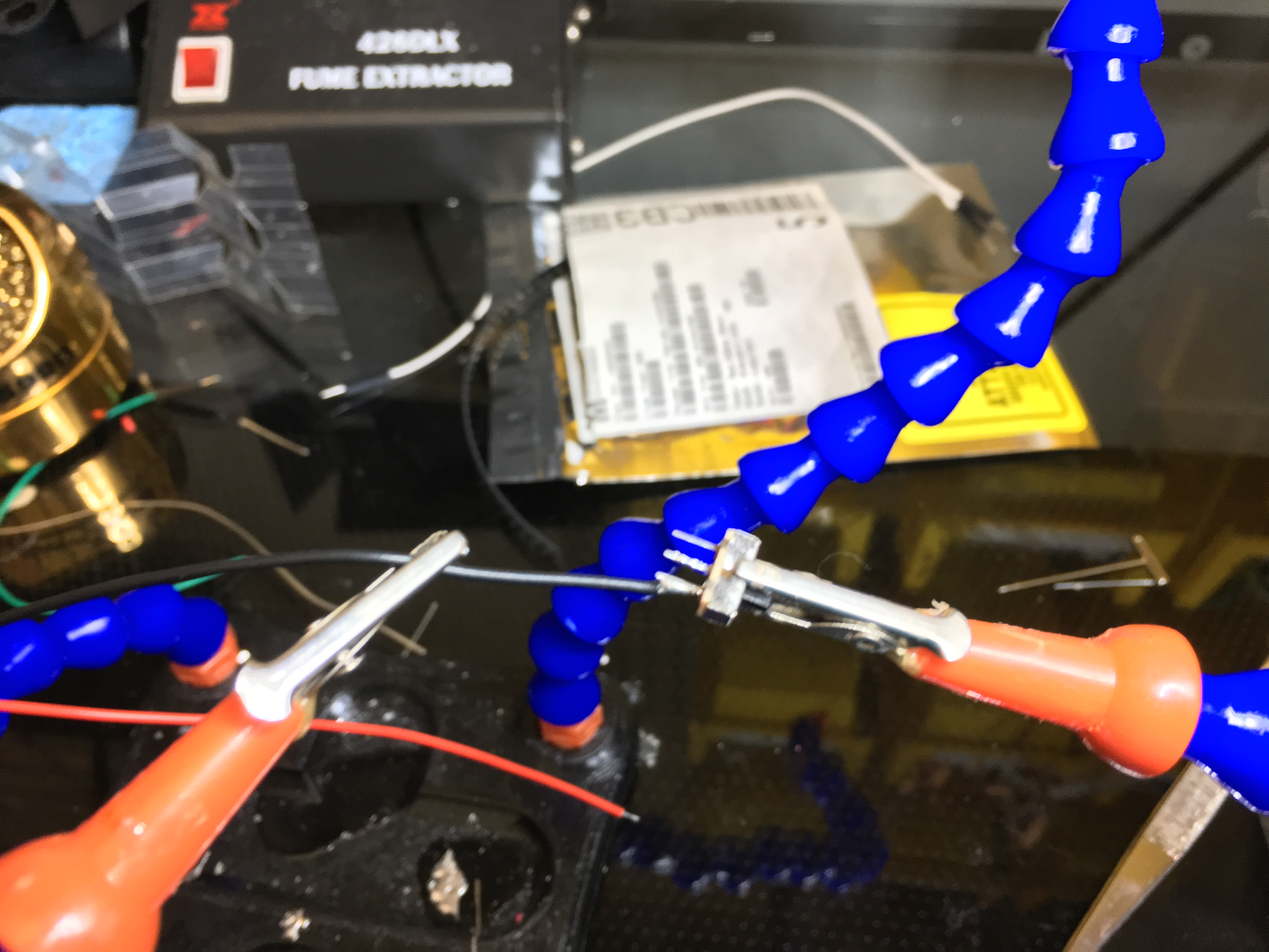
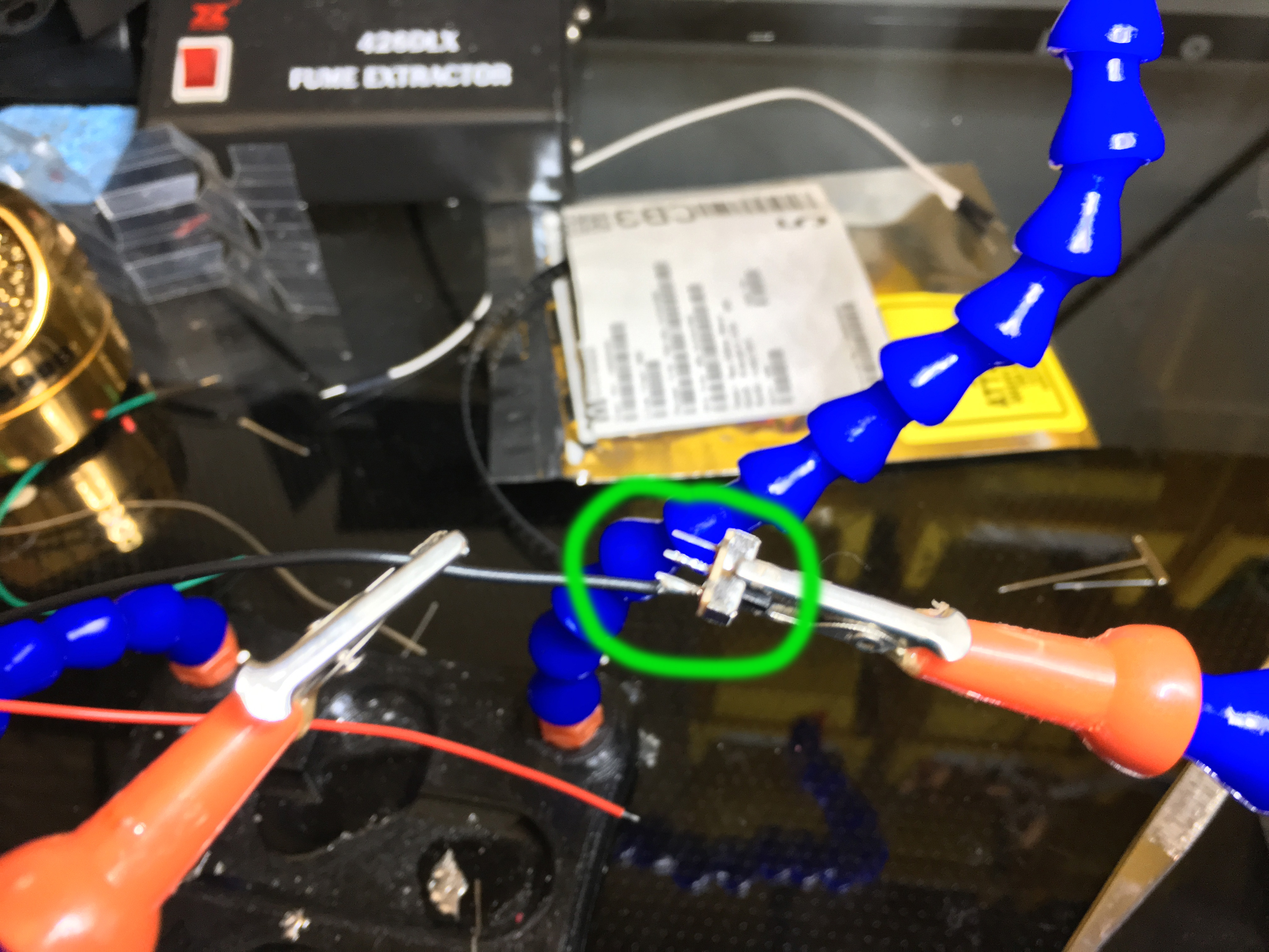
changed file names

Changed region(s): [[0.4375, 0.4974, 0.6562, 0.7149]]

diff --git a/classes/2018-fall-6810/6810-electronics.html b/classes/2018-fall-6810/6810-electronics.html
@@ -373,38 +373,53 @@ To use the battery, you can simply unplug the Arduino 3.3V and GND cables from t
 <img src="images/electronics-tutorial/battery-plugged-in.jpg" width="383px" /> <br><br>
 
 However, if we left everything as it is, your battery would be dead within a few hours.<br>
-Why? Because even without the laptop your battery. 
-
-
-Using the switch on the battery is important because even when the candle is out, your Arduino is still running. So remember to power it down completely with the switch (or by unplugging the battery) or you’ll run out of juice very soon.<br><br>
+Why? Because the Arduino keeps running its loop function all the time, i.e. as long as it has power. So to prevent your battery from draining you need to either (1) unplug the battery every time you are done with programming (not great), or (2) add a switch for turning it on/off.<br><br>
 
 Let's solder a switch to our batter pack wires. Remember not to have the battery plugged in while we do this!<br><br>
 
-Before soldering the wire to the switch, put a bit of heat shrink on! This will protect the exposed wires.<br><br>
+How does the switch work?<br>
+The switch is basically a mechanism to interrupt e.g. your GND wire.<br>
+Imagine cutting your black GND wire into two halfs and then putting the switch in the middle.
+If the switch is in one position, both ends of your black GND cable will be connected and your circuit is closed. If the switch is in another position, your black cable remains 'broken' and no current flows.<br><br>
+
+The switch has three pins as you can see here.<br><br>
+
+<img src="images/electronics-tutorial/switch-schematic.png" width="283px" /> <img src="images/electronics-tutorial/switch-schematic2.png" width="283px" /> <br><br>
+
+Let's solder the black wire on one of the outside pins of the switch (it doesn't matter which one). Since the switch is pretty small and there is not a lot space for soldering, lets put a bit of heat shrink on the wire that we can use to cover the wire from connecting to the neighbor pins! <br><br>
 
 <img src="images/electronics-tutorial/before-soldering.jpg" width="383px" /> <br><br>
 
 <img src="images/electronics-tutorial/after-soldering.jpg" width="383px" /> <br><br>
 
-After soldering both the battery wire and an additional wire to the switch (make sure that at least one wire is soldered to the middle pin!), you can shrink the heat shrink using a heat gun. Ask a TA if you do not know how to use one.<br><br>
-
-before<br>
+Now move your heatshrink over the soldered area.<br>
+Use your soldering iron or a heatgun (ask a TA) to apply heat gently, this will make it shrink and cover the wire.<br><br>
 
 <img src="images/electronics-tutorial/heat-shrink.jpg" width="383px" /> <br><br>
 
-after<br>
+Now get yourself a second piece of black wire from one of the cable roles.<br><br>
 
-<img src="images/electronics-tutorial/heat-shrunk.jpg" width="383px" /> <br><br>
+<img src="https://hcie.csail.mit.edu/classes/2018-fall-6810/images/multi-touch-pad/cable1.png" width="383px" /> <br>
+
+Solder it to the middle pin. (When you move the switch both the middle and outside pin will connect and your circuit is closed). <br>
+
+<img src="images/electronics-tutorial/clipped.jpg" width="383px" /> <br><br>
 
 Finally, to avoid accidentally shorting your battery, you can cut off the third pin, as it is not necessary for our purpose.<br><br>
 
-<img src="images/electronics-tutorial/clipped.jpg" width="383px" /> <br><br>
+Now plug the battery back into your circuit and test if the switch works:<br><br>
+
+<img src="images/electronics-tutorial/battery-plugged-in.jpg" width="383px" /> <br><br>
+
+
+<span style="color:red">Using the switch on the battery every time you are done with using the Arduino is important because even when the candle is out, your Arduino is still running. So remember to power it down completely with the switch (or by unplugging the battery) or you’ll run out of juice very soon.</span><br><br>
+
 
 
 
 <h3>Minituarizing your Setup: Planning it Out</h3><br>
 
-The breadboard and Arduino Uno are pretty chunky and will by hard to integrate into a physical prototype.<br><br>
+The breadboard and Arduino Uno are pretty chunky and will be hard to integrate into a physical prototype.<br><br>
 
 We can make everything much smaller by using an Arduino Nano and a protoboard.<br><br>
 
